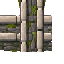
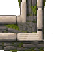
забор сделал руками

Changed region(s): [[0.1875, 0.2188, 0.8125, 0.8125]]

diff --git a/tools/generate_wall_sprites.go b/tools/generate_wall_sprites.go
@@ -125,15 +125,12 @@ func writeFrame(root, name string, out image.Image) {
 	}
 }
 
-// composeWall makes a corner, T or cross from the same normalised straight
-// sprites. Straight-wall artwork is perspective-biased: its horizontal band
-// sits left of the tile centre while the vertical band sits above it. A 32px
-// split therefore leaves an empty notch in every corner. The intentionally
-// wide 12px joins overlap the visible masonry bands, producing one solid
-// stone turn without changing the straight runs.
+// composeWall makes a compact, mitred junction from the same normalised
+// straight sprites. Each arm begins one quarter into the tile, so the centre
+// is reinforced by stone but does not turn into a bulky square tower.
 func composeWall(horizontal, vertical *image.NRGBA, module wallModule) *image.NRGBA {
 	out := image.NewNRGBA(image.Rect(0, 0, 64, 64))
-	const joinInset = 12
+	const joinInset = 24
 	const joinEnd = 64 - joinInset
 	if module.west {
 		copyPart(out, horizontal, image.Rect(0, 0, joinEnd, 64))

diff --git a/internal/assets/buildings/wall/README.md b/internal/assets/buildings/wall/README.md
@@ -1,0 +1,30 @@
+# Модули каменной стены
+
+Все PNG имеют размер 64×64 и загружаются игрой при старте. Направления указаны относительно клетки стены: север — вверх экрана, восток — вправо.
+
+| Файл | Назначение |
+| --- | --- |
+| horizontal.png | Прямая стена с соседями слева и справа. |
+| vertical.png | Прямая стена с соседями сверху и снизу. |
+| corner_ne.png | Угол: продолжение **вверх** и **вправо**. |
+| corner_nw.png | Угол: продолжение **вверх** и **влево**. |
+| corner_se.png | Угол: продолжение **вправо** и **вниз**. |
+| corner_sw.png | Угол: продолжение **вниз** и **влево**. |
+| tee.png | Т-образное соединение. Сейчас используется для всех четырёх поворотов «Т». |
+| cross.png | Перекрёсток стены: продолжение во все четыре стороны. |
+| pillar.png | Одиночная клетка стены без соседей. |
+
+## Ворота
+
+Ворота лежат уровнем выше, в ../gate/:
+
+| Файл | Назначение |
+| --- | --- |
+| horizontal_closed.png / horizontal_open.png | Ворота в горизонтальном участке стены. |
+| vertical_closed.png / vertical_open.png | Ворота в вертикальном участке стены. |
+
+## Правка в Photoshop
+
+Можно редактировать четыре corner_*.png напрямую: прозрачность фона обязательна, размер не менять (64×64). После правки перезапустите игру — ассеты внешние и считываются при запуске.
+
+tools/generate_wall_sprites.go генерирует весь набор из исходного листа и перезапишет ручные изменения. Не запускайте его после Photoshop-правки, пока не сохраните свою версию углов в другом месте.
